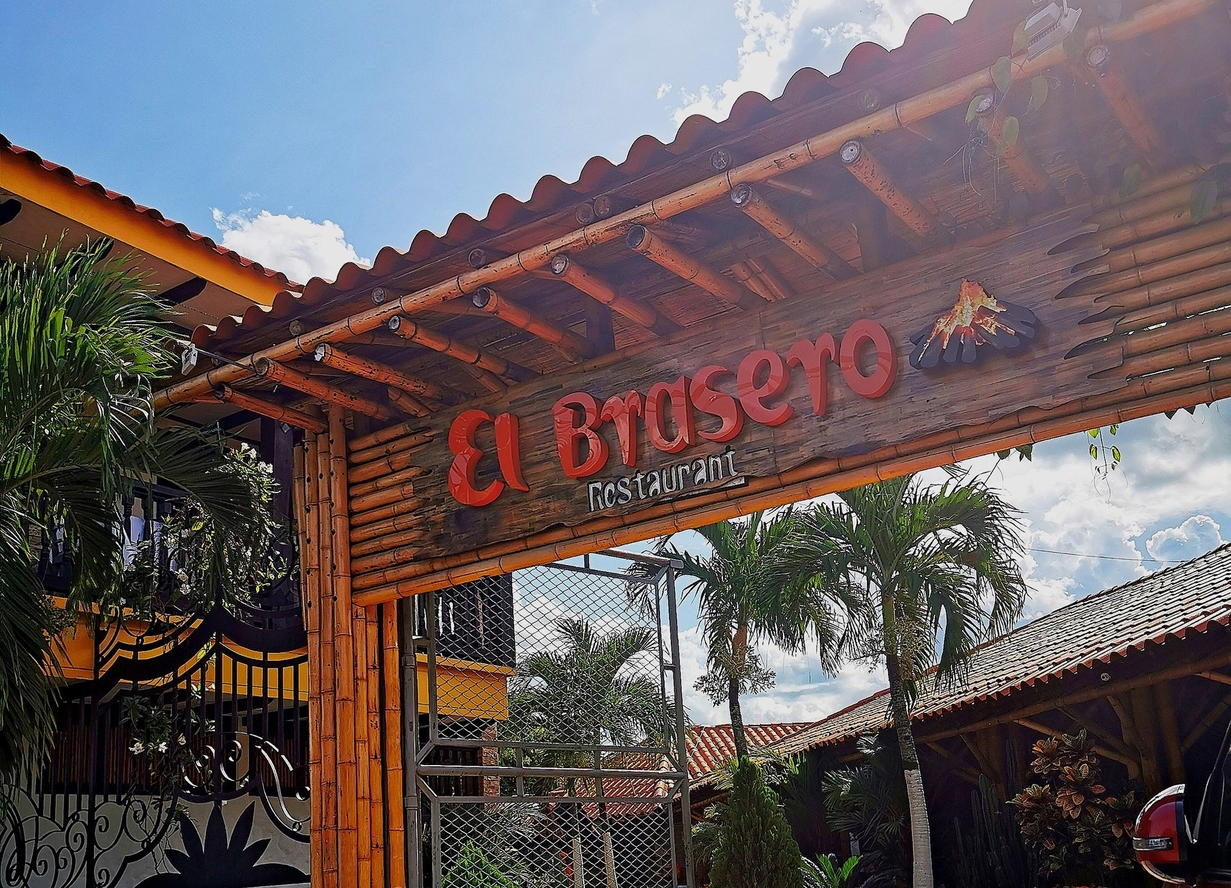
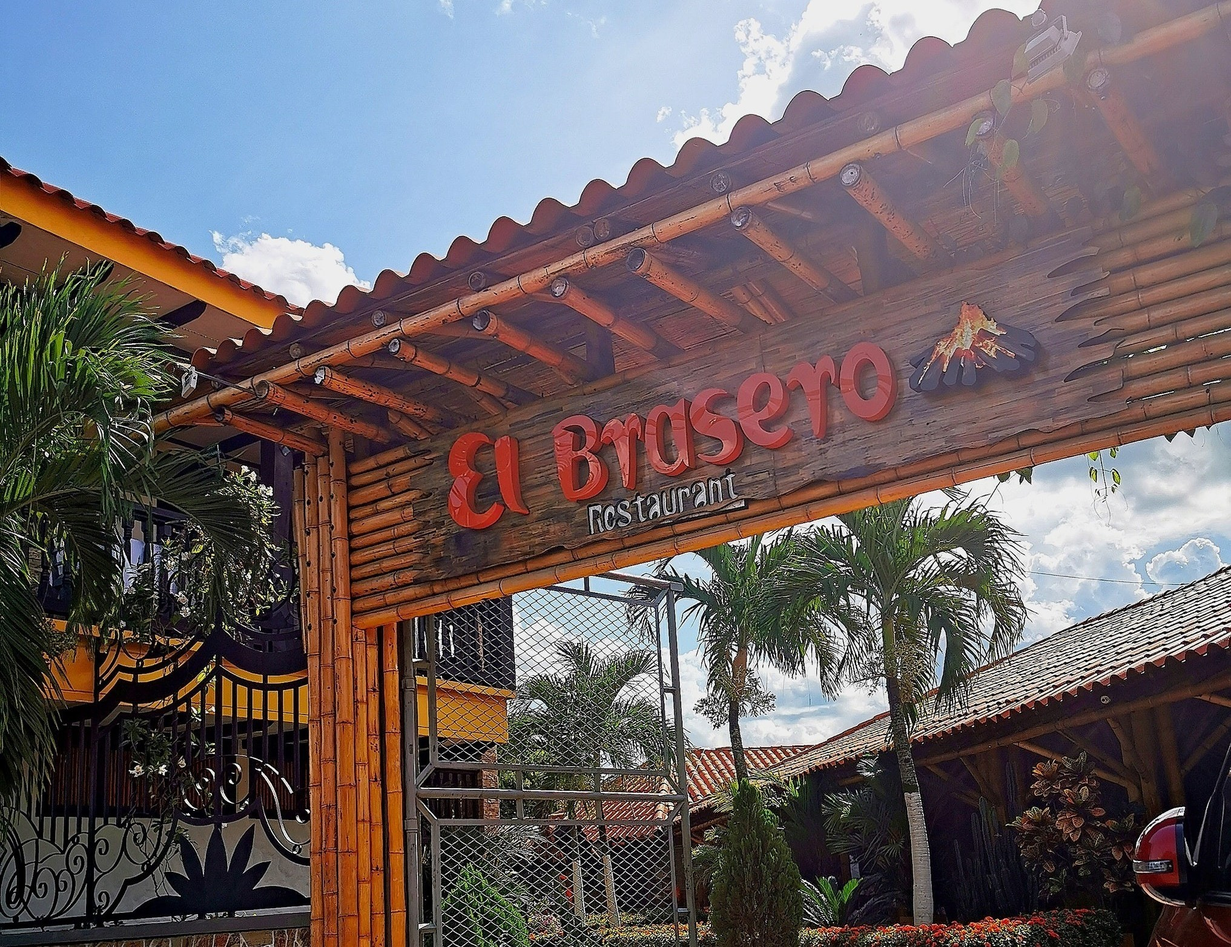
hice algunos cambios en los componentes

diff --git a/src/app/pages/usuario/turismo/comidas-tipicas/comidas-tipicas.component.html b/src/app/pages/usuario/turismo/comidas-tipicas/comidas-tipicas.component.html
@@ -8,10 +8,10 @@
           <mat-icon>restaurant</mat-icon>
           <span class="titulo">La Mamona</span>
         </div>
-        <img mat-card-image src="mamona.jpg" alt="Parque Resurgimiento" />
+        <img mat-card-image src="mamona.jpg" alt="La Mamona" />
         <div class="lugar-info">
-          <div>Yopal Casanare</div>
-          <div><strong>Centro</strong></div>
+          <div>Yopal<br />Casanare</div>
+          <div><strong>Cll 11 con 19</strong><br />Centro</div>
         </div>
       </mat-card>
   
@@ -24,7 +24,7 @@
         <img mat-card-image src="corral.jpg" alt="Asadero el corral" />
         <div class="lugar-info">
           <div>Yopal<br />Casanare</div>
-          <div><strong>Distancia</strong><br />1:35 minutos</div>
+          <div><strong>carrera 19 14-47</strong><br />Unicentro</div>
         </div>
       </mat-card>
   
@@ -34,10 +34,10 @@
           <mat-icon>restaurant</mat-icon>
           <span class="titulo">El Brasero</span>
         </div>
-        <img mat-card-image src="brasero.jpg" alt="Parque temático Historia de piedra" />
+        <img mat-card-image src="brasero.jpg" alt="El Brasero" />
         <div class="lugar-info">
-          <div>Tauramena<br />Casanare</div>
-          <div><strong>Distancia</strong><br />10 km</div>
+          <div>Yopal<br />Casanare</div>
+          <div><strong>Calle 24 con 16</strong><br /></div>
         </div>
       </mat-card>
     </div>

diff --git a/src/app/pages/dashboard/dashboardsenderismo/dashboardsenderismo.component.html b/src/app/pages/dashboard/dashboardsenderismo/dashboardsenderismo.component.html
@@ -66,10 +66,11 @@
     <mat-sidenav-content class="content">
       <mat-toolbar color="primary" class="topbar">
         <span class="tabs">
-          <button mat-button>Música</button>
-          <button mat-button>Cultura</button>
-          <button mat-button>Turismo</button>
+          <button mat-button [routerLink]="'/musica'">Música</button>
+          <button mat-button [routerLink]="'/cultura'">Cultura</button>
+          <button mat-button [routerLink]="'/turismo'">Turismo</button>
         </span>
+        
   
         <span class="spacer"></span>
   
@@ -78,9 +79,13 @@
   
           <input matInput />
         </mat-form-field>
-  
-        <button mat-button>Inicio de sesión</button>
-        <button mat-raised-button color="accent">Registro<mat-icon>contacts product</mat-icon></button>
+      
+        <button mat-button [routerLink]="'/login'">Inicio de sesión</button>
+
+        <button mat-raised-button color="accent" [routerLink]="'/register'">
+          Registro <mat-icon>person_add</mat-icon>
+        </button>
+        
       </mat-toolbar>
 
       <div class="content-body">

diff --git a/src/app/pages/usuario/turismo/senderismo/senderismo.component.css b/src/app/pages/usuario/turismo/senderismo/senderismo.component.css
@@ -3,11 +3,13 @@
     display: flex;
     flex-wrap: wrap;
     justify-content: center;
-    gap: 30px;
+    gap: 150px; /*espacio entre tarjetas*/
+  
   }
 
   .lugar-card {
     width: 260px;
+    height: 400;
     background-color: #d9d9d9;
     border-radius: 15px;
     padding: 12px;
@@ -18,12 +20,18 @@
     .lugar-header {
       display: flex;
       align-items: center;
-      font-weight: italic;
       margin-bottom: 8px;
       gap: 8px;
+      width: 100%;
+      height: 180%;
+      object-fit: cover;
+      font-size: 10px;
+      font-weight:bold;
 
       mat-icon {
         font-size: 24px;
+        color:rgb(97, 96, 96) ; 
+       
       }
 
       .titulo {
@@ -36,12 +44,16 @@
       width: 100%;
       height: auto;
       margin-bottom: 15px;
+      width: 100%;
+      height: 180%;
+      object-fit: cover;
     }
 
     .lugar-info {
       display: flex;
       justify-content: space-between;
-      font-size: 13px;
+      font-size: 15px;
+      font-weight: bold;
     }
   }
 

diff --git a/src/app/pages/usuario/turismo/eventos-culturales/eventos-culturales.component.css b/src/app/pages/usuario/turismo/eventos-culturales/eventos-culturales.component.css
@@ -3,11 +3,13 @@
     display: flex;
     flex-wrap: wrap;
     justify-content: center;
-    gap: 30px;
+    gap: 150px; /*espacio entre tarjetas*/
+  
   }
 
   .lugar-card {
     width: 260px;
+    height: 400;
     background-color: #d9d9d9;
     border-radius: 15px;
     padding: 12px;
@@ -18,9 +20,11 @@
     .lugar-header {
       display: flex;
       align-items: center;
-      font-weight: italic;
       margin-bottom: 8px;
-      gap: 8px;
+      gap: 10px;
+      padding: 8px 16px;
+      font-size: 10px;
+      font-weight:bold ;
 
       mat-icon {
         font-size: 24px;
@@ -37,12 +41,17 @@
       width: 100%;
       height: auto;
       margin-bottom: 15px;
+      width: 100%;
+      height: 180%;
+      object-fit: cover;
+      
     }
 
     .lugar-info {
       display: flex;
       justify-content: space-between;
-      font-size: 13px;
+      font-size: 15px;
+      font-weight: bold;
     }
   }
 

diff --git a/src/app/pages/usuario/turismo/lugares-historicos/lugares-historicos.component.html b/src/app/pages/usuario/turismo/lugares-historicos/lugares-historicos.component.html
@@ -18,12 +18,12 @@
       <!-- Tarjeta 2 -->
       <mat-card class="lugar-card">
         <div class="lugar-header">
-          <mat-icon>event</mat-icon>
+          <mat-icon>museum</mat-icon>
           <span class="titulo">Las Ruinas de Pore</span>
         </div>
         <img mat-card-image src="pore.jpg" alt="Las Ruinas de Pore" />
         <div class="lugar-info">
-          <div>Yopal<br />Casanare</div>
+          <div>Pore<br />Casanare</div>
           <div><strong>Distancia</strong><br />21 km</div>
         </div>
       </mat-card>
@@ -31,7 +31,7 @@
       <!-- Tarjeta 3 -->
       <mat-card class="lugar-card">
         <div class="lugar-header">
-          <mat-icon>event</mat-icon>
+          <mat-icon>museum</mat-icon>
           <span class="titulo">Monte de Jehová</span>
         </div>
         <img mat-card-image src="monte.jpg" alt="Copa America de Coleo" />

diff --git a/src/app/pages/usuario/turismo/lugares-historicos/lugares-historicos.component.css b/src/app/pages/usuario/turismo/lugares-historicos/lugares-historicos.component.css
@@ -3,11 +3,13 @@
     display: flex;
     flex-wrap: wrap;
     justify-content: center;
-    gap: 30px;
+    gap: 150px; /*espacio entre tarjetas*/
+
   }
 
   .lugar-card {
     width: 260px;
+    height: 400;
     background-color: #d9d9d9;
     border-radius: 15px;
     padding: 12px;
@@ -18,9 +20,10 @@
     .lugar-header {
       display: flex;
       align-items: center;
-      font-weight: italic;
       margin-bottom: 8px;
       gap: 8px;
+      font-size: 10px;
+      font-weight:bold;
 
       mat-icon {
         font-size: 24px;
@@ -37,12 +40,16 @@
       width: 100%;
       height: auto;
       margin-bottom: 15px;
+      width: 100%;
+      height: 180%;
+      object-fit: cover;
     }
 
     .lugar-info {
       display: flex;
       justify-content: space-between;
-      font-size: 13px;
+      font-size: 15px;
+      font-weight: bold;
     }
   }
 

diff --git a/src/app/pages/usuario/turismo/actividad-familiar/actividad-familiar.component.css b/src/app/pages/usuario/turismo/actividad-familiar/actividad-familiar.component.css
@@ -3,11 +3,12 @@
     display: flex;
     flex-wrap: wrap;
     justify-content: center;
-    gap: 30px;
+    gap: 150px; /*espacio entre tarjetas*/
   }
 
   .lugar-card {
     width: 260px;
+    height: 400;
     background-color: #d9d9d9;
     border-radius: 15px;
     padding: 12px;
@@ -18,9 +19,10 @@
     .lugar-header {
       display: flex;
       align-items: center;
-      font-weight: italic;
       margin-bottom: 8px;
       gap: 8px;
+      font-size: 10px;
+      font-weight:bold ;
 
       mat-icon {
         font-size: 24px;
@@ -37,12 +39,16 @@
       width: 100%;
       height: auto;
       margin-bottom: 15px;
+      width: 100%;
+      height: 180%;
+      object-fit: cover;
     }
 
     .lugar-info {
       display: flex;
       justify-content: space-between;
       font-size: 13px;
+      font-weight: bold;
     }
   }
 

diff --git a/src/app/pages/usuario/turismo/comidas-tipicas/comidas-tipicas.component.css b/src/app/pages/usuario/turismo/comidas-tipicas/comidas-tipicas.component.css
@@ -3,11 +3,12 @@
     display: flex;
     flex-wrap: wrap;
     justify-content: center;
-    gap: 30px;
+    gap: 150px; /*espacio entre tarjetas*/
   }
 
   .lugar-card {
     width: 260px;
+    height: 400;
     background-color: #d9d9d9;
     border-radius: 15px;
     padding: 12px;
@@ -18,9 +19,10 @@
     .lugar-header {
       display: flex;
       align-items: center;
-      font-weight: italic;
       margin-bottom: 8px;
       gap: 8px;
+      font-size: 10px;
+      font-weight:bold;
 
       mat-icon {
         font-size: 24px;
@@ -37,12 +39,16 @@
       width: 100%;
       height: auto;
       margin-bottom: 15px;
+      width: 100%;
+      height: 180%;
+      object-fit: cover;
     }
 
     .lugar-info {
       display: flex;
       justify-content: space-between;
       font-size: 13px;
+      font-weight: bold;
     }
   }
 

diff --git a/src/app/app.routes.ts b/src/app/app.routes.ts
@@ -3,10 +3,12 @@ import { RouterModule, Routes } from '@angular/router';
 import { LoginComponent } from './pages/usuario/registro/login/login.component';
 import { ContrasenaComponent } from './pages/usuario/registro/contrasena/contrasena.component';
 import { SenderismoComponent } from './pages/usuario/turismo/senderismo/senderismo.component';
+import { RegisterComponent } from './pages/usuario/registro/register/register.component';
 
 const routes: Routes = [
   { path: '', redirectTo: 'login', pathMatch: 'full' },
   { path: 'login', component: LoginComponent },
+  { path: 'register', component: RegisterComponent },
   { path: 'contraseña', component: ContrasenaComponent},
   { path: 'senderismo', component: SenderismoComponent},
   

diff --git a/src/app/pages/usuario/turismo/senderismo/senderismo.component.html b/src/app/pages/usuario/turismo/senderismo/senderismo.component.html
@@ -10,7 +10,7 @@
           </div>
           <img mat-card-image src="mirador1.jpg" alt="Mirador de la virgen de manare" />
           <div class="lugar-info">
-            <div>Yopal Casanare</div>
+            <div>Yopal<br />Casanare</div>
             <div><strong>Distancia</strong><br />2.6 km</div>
           </div>
         </mat-card>

diff --git a/src/app/pages/usuario/turismo/actividad-familiar/actividad-familiar.component.html b/src/app/pages/usuario/turismo/actividad-familiar/actividad-familiar.component.html
@@ -10,7 +10,7 @@
         </div>
         <img mat-card-image src="parque.jpeg" alt="Parque Resurgimiento" />
         <div class="lugar-info">
-          <div>Yopal Casanare</div>
+          <div>Yopal<br />Casanare</div>
           <div><strong>Centro</strong></div>
         </div>
       </mat-card>

diff --git a/src/app/pages/dashboard/dashboardsenderismo/dashboardsenderismo.component.css b/src/app/pages/dashboard/dashboardsenderismo/dashboardsenderismo.component.css
@@ -115,6 +115,7 @@
       h4 {
         font-weight: bold;
         margin-bottom: 0.5rem;
+        gap: 30px;
       }
   
       ul {
@@ -277,5 +278,3 @@
   .lupa{
     float: right;
   }
-  
-  
